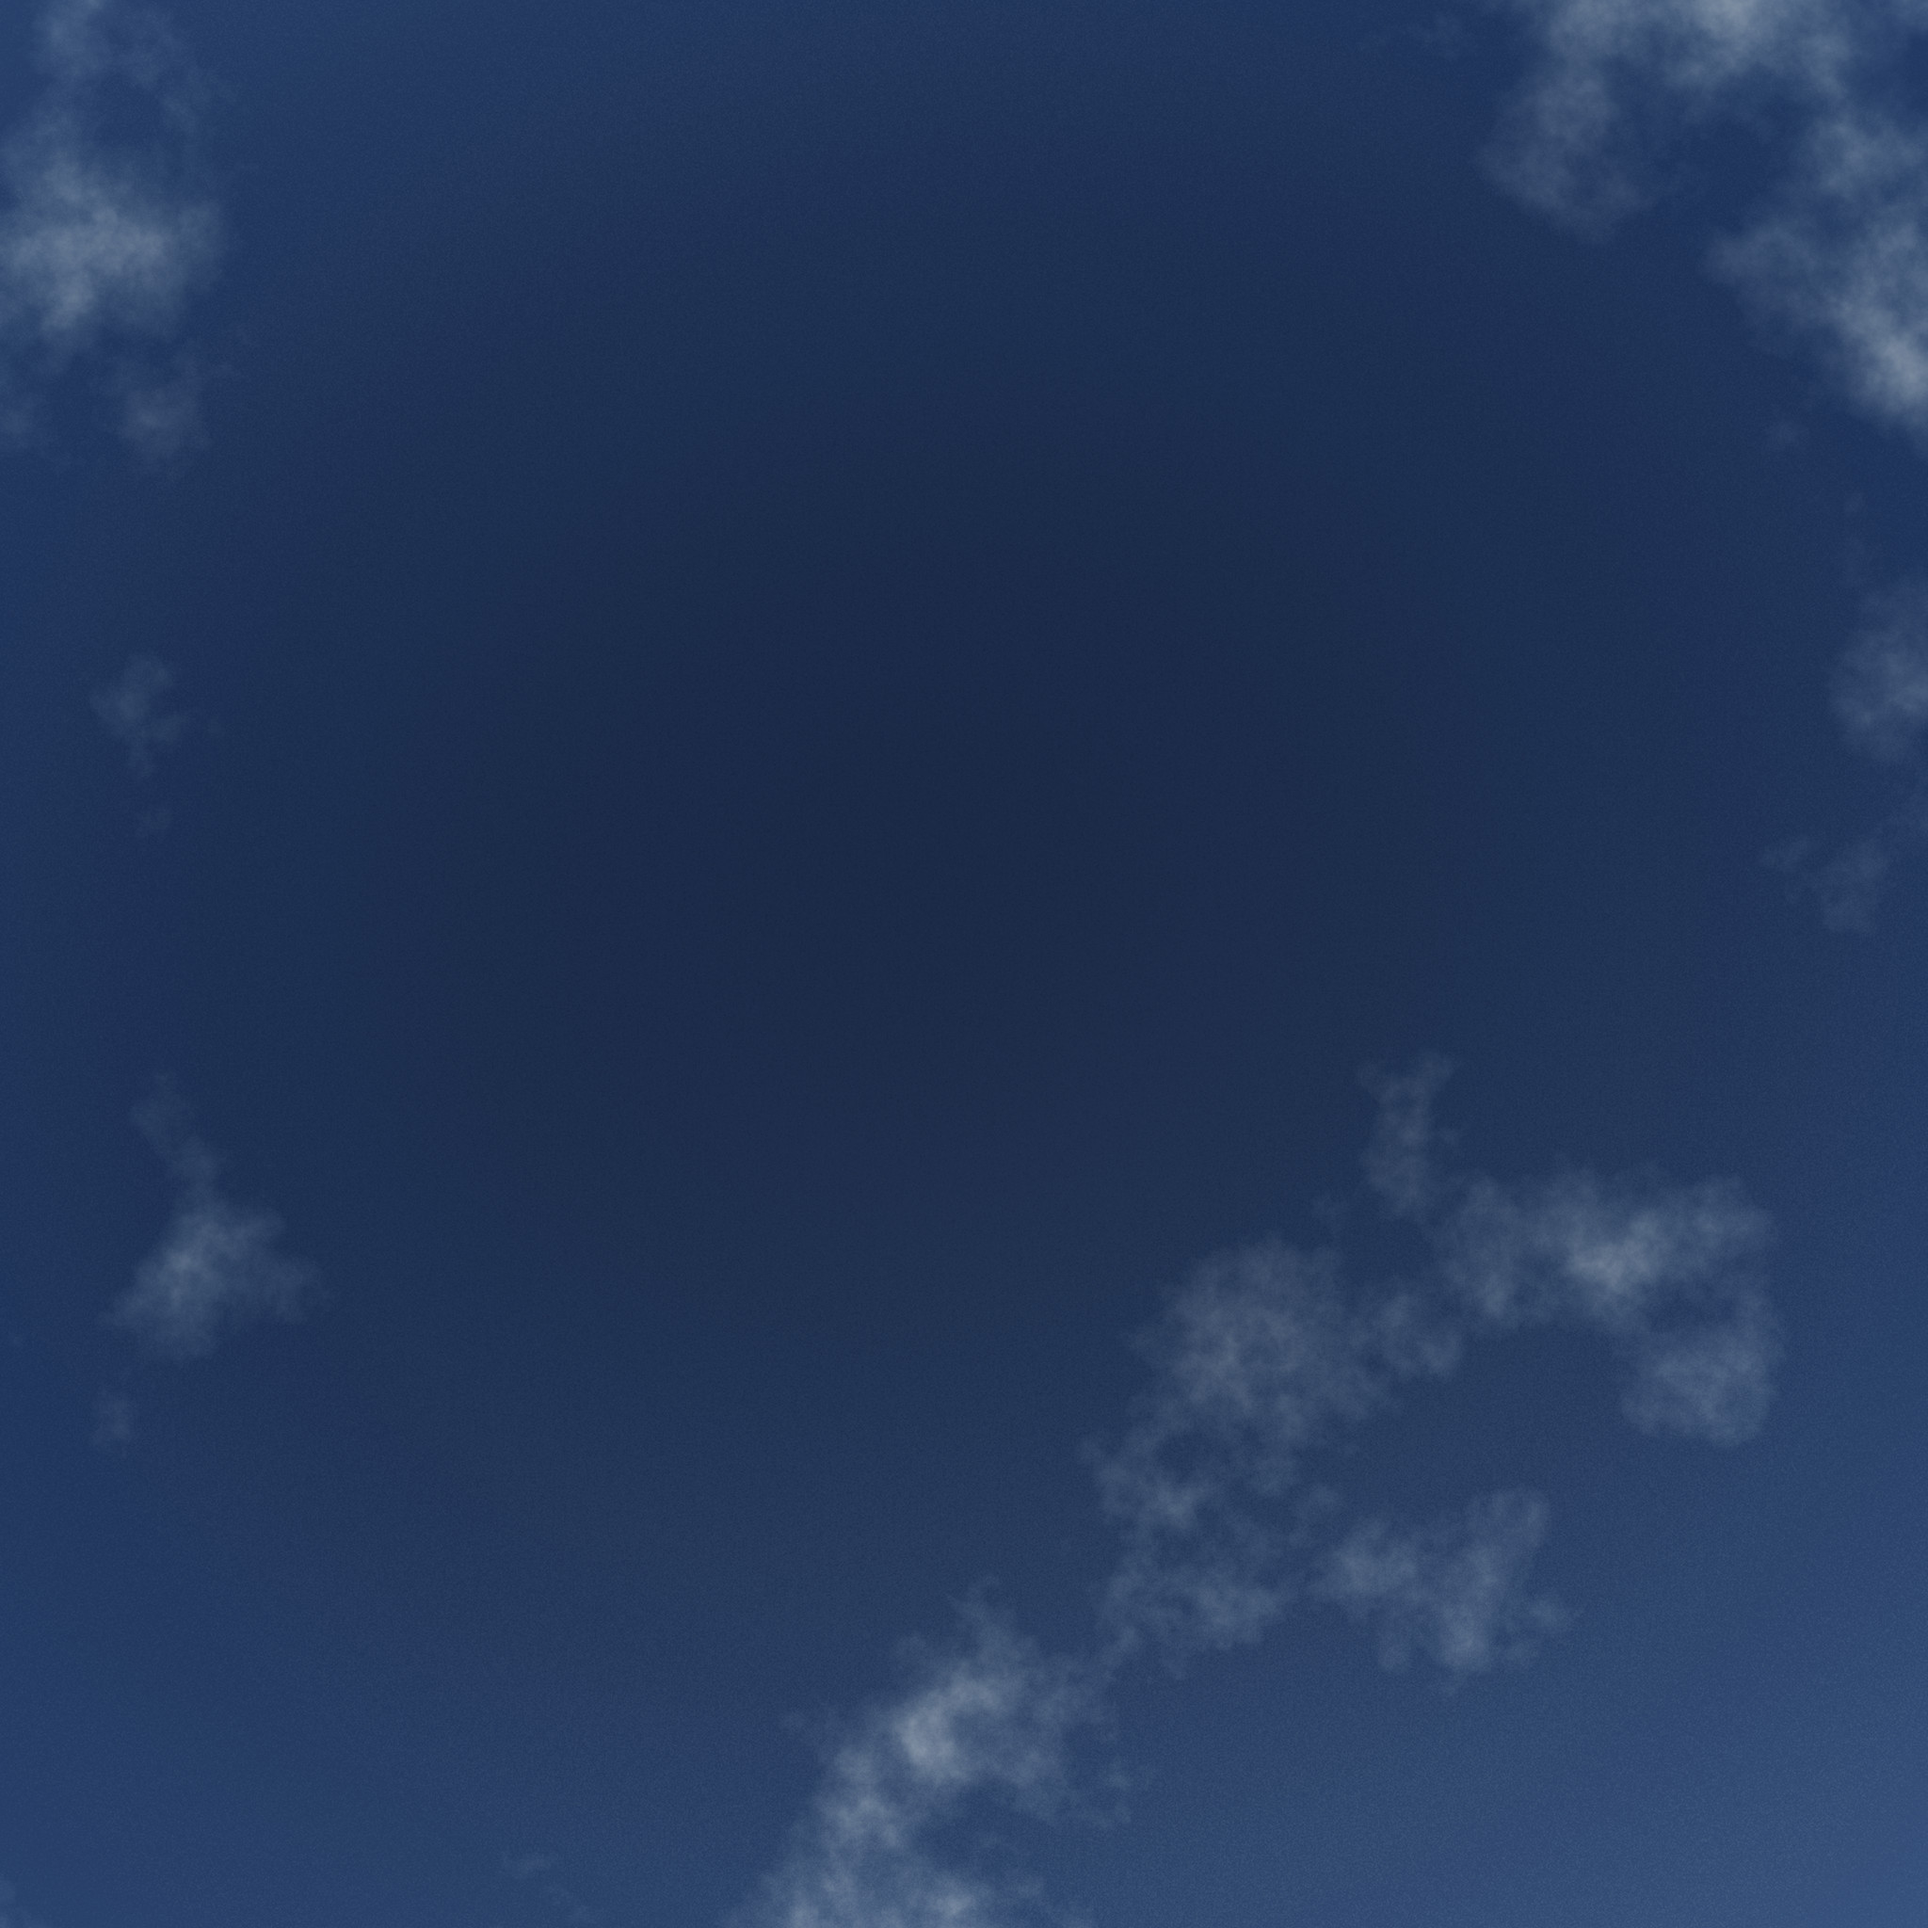
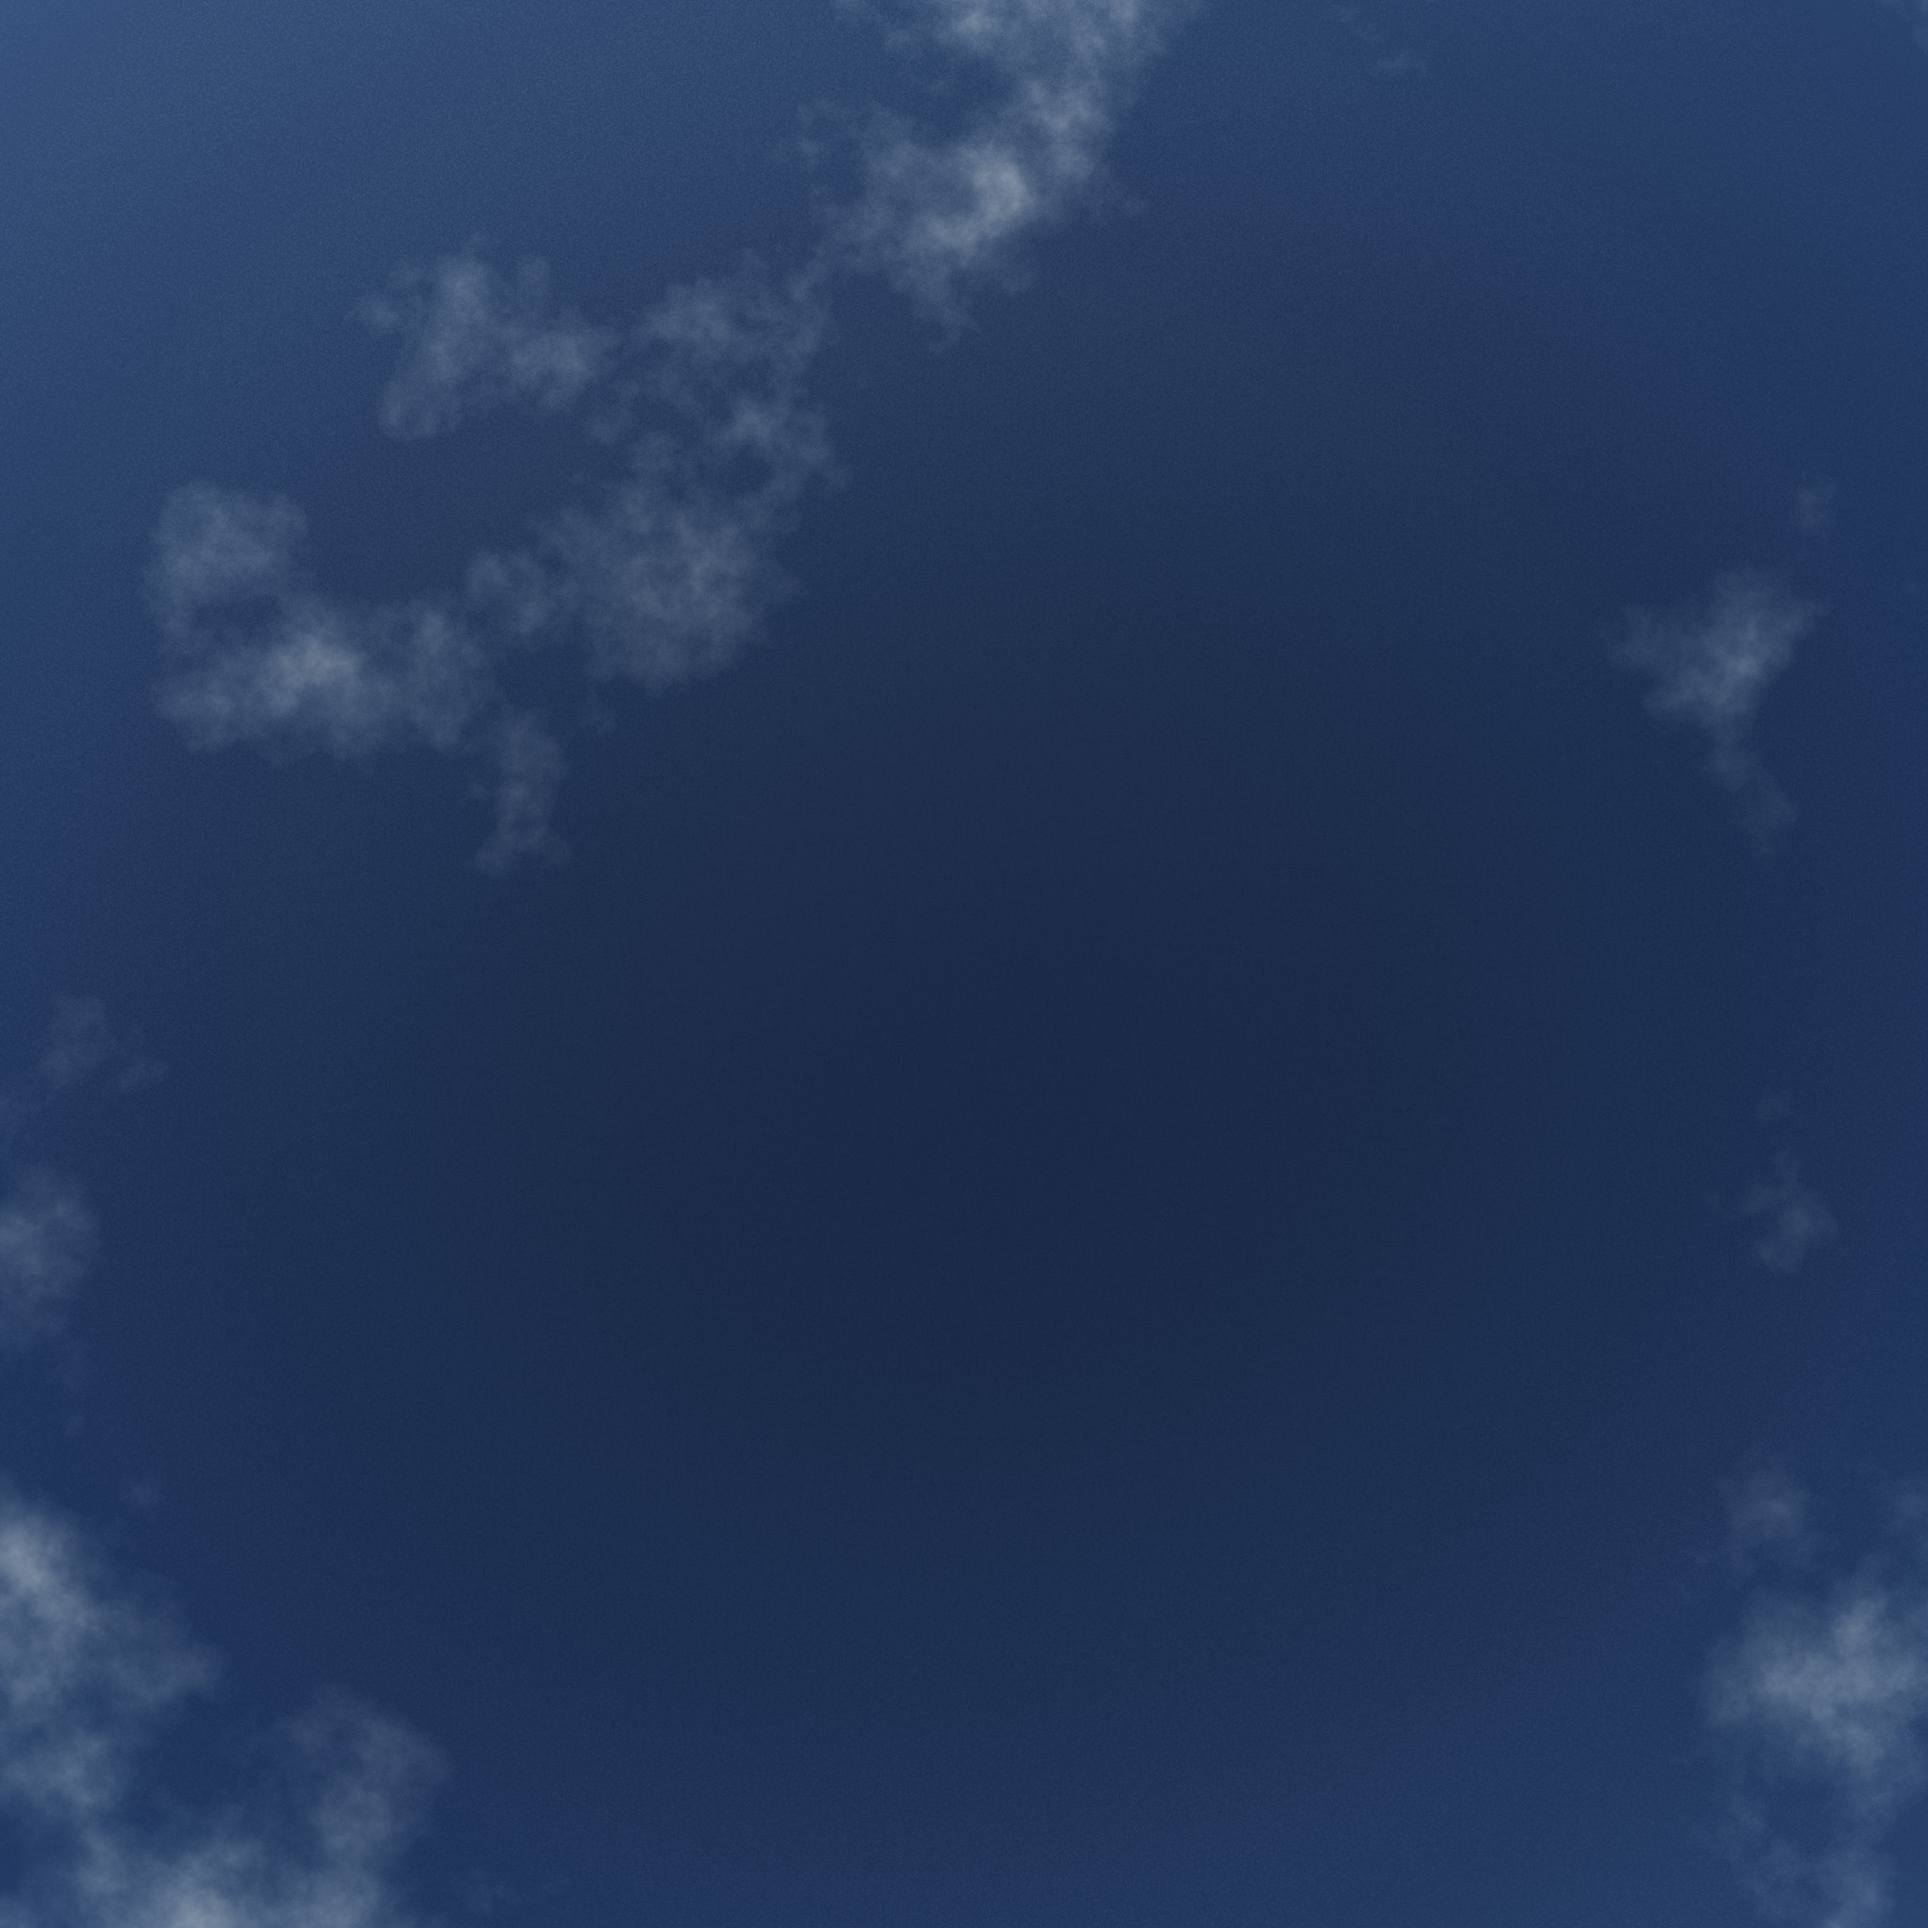
I dont know what this is

diff --git a/src/Image.cpp b/src/Image.cpp
@@ -26,6 +26,7 @@ Image::Image(std::string path) {
     std::string imgType = tokens.back();
     std::transform(imgType.begin(), imgType.end(), imgType.begin(), ::toupper);
 
+    stbi_set_flip_vertically_on_load(true);
     // load with or without alpha channel
     //TODO(nurgan) find out what formats besides PNG use an alpha channel
     if(imgType == "PNG"){
